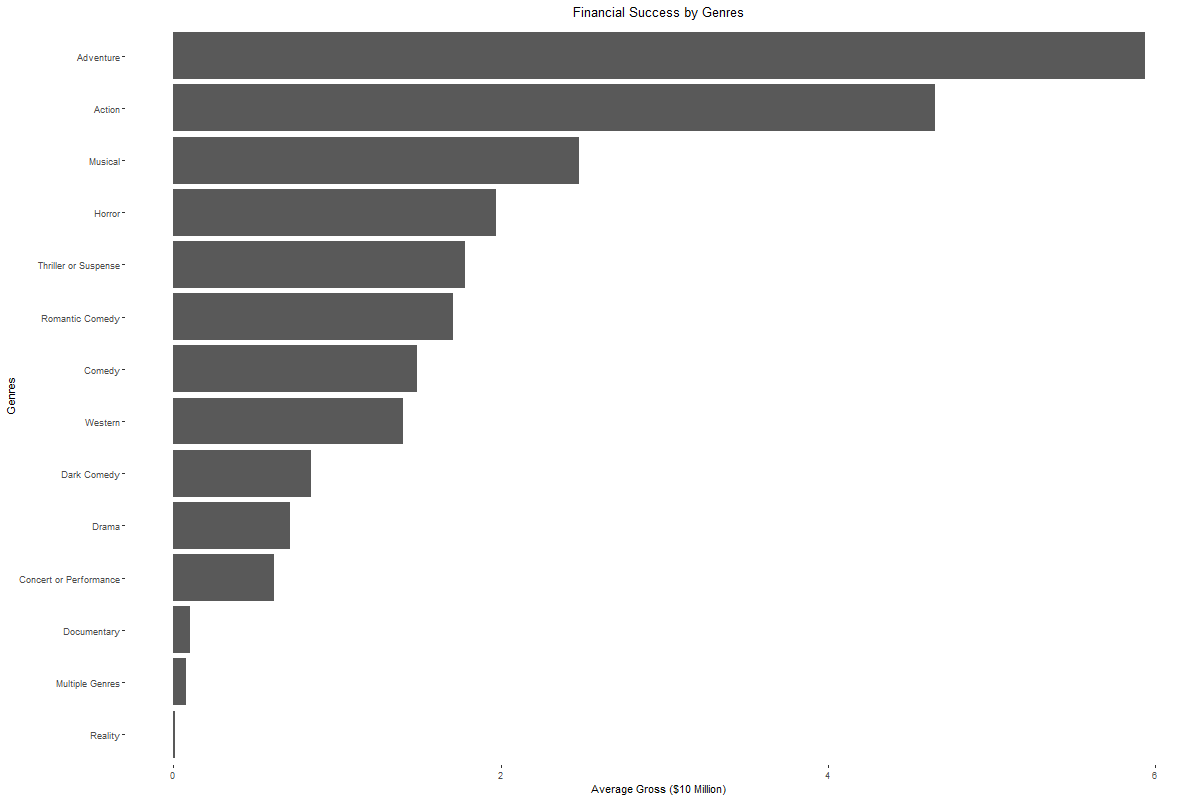
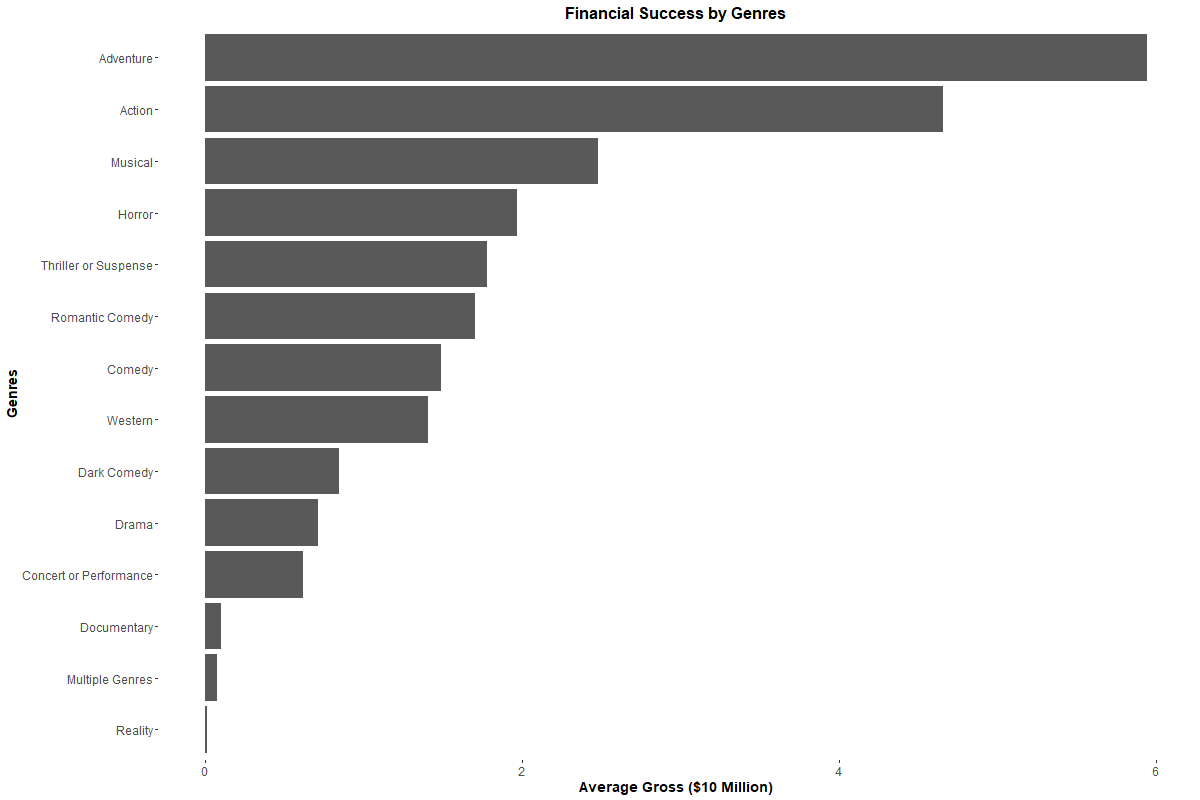
Final text and graphs descriptions.

diff --git a/README.md b/README.md
@@ -1,3 +1,171 @@
-# Movie Genres Statistics
+---
+title: "Movie Genres Statistics"
+author: "Marcos Munhão"
+output: 
+  html_document: 
+    toc: true
+    keep_md: true
+---
 
-This project shows some statistics about movie genres from 1995-2018, using R language and the dataset available at https://www.kaggle.com/datasets/thedevastator/film-genre-statistics?resource=download. 
+
+
+This is my first project using R language, so I tried to explore the dataset and extract some information about it. It shows:
+
+- Genres Popularity by movies released and tickets sold
+- Financial Success by adding the gross of each genre over the years and using an average of the total gross divided by the sum of movies released in each genre
+- Trend over time looking at movies released every year (1995 - 2018) for each genre and also looking at gross per year
+- Top 10 Highest-Grossing movies in this specific period, using the inflation correction for top movies provided.  
+
+# Data
+
+The dataset [Film Genre Statistics](https://www.kaggle.com/datasets/thedevastator/film-genre-statistics?resource=download.) were downloaded from Kaggle and has movie genre statistics and revenue data from 1995-2018. In this project, it can be found inside the folder called "Data" named as "ThrowbackDataThursday Week 11 - Film Genre Stats.csv". Let's see some things about it.
+
+
+### Size of our data
+Number of rows or observations =  300 
+
+Number of columns or variables =  10 
+
+# Popular Genres
+
+Selecting unique values in Genre column and adding all movies released and tickets sold for it (movies_pop). The data still remains as a dataframe. The "movies_pop_mr" and "movies_pop_ts" are the same dataframe as "movies_pop", but ordered by movies released and tickets sold, respectively. Both ordered in decreasing order.
+
+
+
+
+Table: Dataframe with popularity for each genre by movies released and tickets sold
+
+|Genre                  | Movies_Released| Tickets_Sold|
+|:----------------------|---------------:|------------:|
+|Action                 |             956|   6286733017|
+|Adventure              |            1005|   8480812819|
+|Comedy                 |            2230|   5040638417|
+|Concert or Performance |              63|     49778298|
+|Dark Comedy            |             174|    208096184|
+|Documentary            |            2143|    322824020|
+|Drama                  |            4997|   5474189407|
+|Horror                 |             553|   1572563195|
+|Multiple Genres        |              39|      3676146|
+|Musical                |             170|    547432661|
+|Reality                |               5|        74035|
+|Romantic Comedy        |             574|   1557896913|
+|Thriller or Suspense   |            1024|   2671463214|
+|Western                |              77|    146128846|
+
+Below we can see graphics generated from the data above: 
+
+### By Movies Released
+
+
+Table: Dataframe movies_pop ordered in a decreasing way by movies released
+
+|   |Genre                  | Movies_Released| Tickets_Sold| Porc_total|
+|:--|:----------------------|---------------:|------------:|----------:|
+|7  |Drama                  |            4997|   5474189407|      35.67|
+|3  |Comedy                 |            2230|   5040638417|      15.92|
+|6  |Documentary            |            2143|    322824020|      15.30|
+|13 |Thriller or Suspense   |            1024|   2671463214|       7.31|
+|2  |Adventure              |            1005|   8480812819|       7.17|
+|1  |Action                 |             956|   6286733017|       6.82|
+|12 |Romantic Comedy        |             574|   1557896913|       4.10|
+|8  |Horror                 |             553|   1572563195|       3.95|
+|5  |Dark Comedy            |             174|    208096184|       1.24|
+|10 |Musical                |             170|    547432661|       1.21|
+|14 |Western                |              77|    146128846|       0.55|
+|4  |Concert or Performance |              63|     49778298|       0.45|
+|9  |Multiple Genres        |              39|      3676146|       0.28|
+|11 |Reality                |               5|        74035|       0.04|
+
+
+![](Images/Popularity of Genres by Movies Releasead.png)<!-- -->
+
+
+Looking at movies released, for this dataset, Drama is the most popular genre, with almost 5000 movies between 1995 and 2018. It's followed by Comedy and Documentary. These threes, together, answer for almost 67% of all movies released. As we'll see, this actually doesn't mean that they are popular genres, but that they have a largest film catalog. I know that we can think about the offer and demand, so let's take a look at tickets sold. 
+
+### By Tickets Sold
+
+
+Table: Dataframe movies_pop oredered in a decreasing way by tickets sold
+
+|   |Genre                  | Movies_Released| Tickets_Sold| Porc_total|
+|:--|:----------------------|---------------:|------------:|----------:|
+|2  |Adventure              |            1005|   8480812819|      26.21|
+|1  |Action                 |             956|   6286733017|      19.43|
+|7  |Drama                  |            4997|   5474189407|      16.92|
+|3  |Comedy                 |            2230|   5040638417|      15.58|
+|13 |Thriller or Suspense   |            1024|   2671463214|       8.25|
+|8  |Horror                 |             553|   1572563195|       4.86|
+|12 |Romantic Comedy        |             574|   1557896913|       4.81|
+|10 |Musical                |             170|    547432661|       1.69|
+|6  |Documentary            |            2143|    322824020|       1.00|
+|5  |Dark Comedy            |             174|    208096184|       0.64|
+|14 |Western                |              77|    146128846|       0.45|
+|4  |Concert or Performance |              63|     49778298|       0.15|
+|9  |Multiple Genres        |              39|      3676146|       0.01|
+|11 |Reality                |               5|        74035|       0.00|
+
+![](Images/Popularity of Genres by Tickets Sold.png)<!-- -->
+
+Here we can see that adding tickets from Adventure and Action movies, they sold more tickets than all of our previous top 3 most popular genres added together. Actually, Adventure almost made it alone. I think this is a better way to understand the popularity of a genre movie, because it's actually the public response. We need to consider that these are movies for almost everyone and easy to watch, despite film's budget. Related to the idea of measure the popularity of a genre or movie by how many tickets they sold, we will look now for financial success.
+
+Obs.: Because of the scale of the graphic, we can't see clearly how many tickets were sold or how many movies were released. This information can be seen in the respectively dataframe.
+
+# Measuring Financial Success
+
+The revenue of a movie determines if it will be a success or a failure, so now we will look which are the most successful genres and establish a metric to be the first revenue projection if you want to produce a movie. At first, let's take a look at the total gross of each genre. We expect to see something similar to the rank for popularity by tickets sold. The data, in this case, is available at a dataframe called "movies_fs".
+
+Besides "Total_Gross_genre", we see a variable called "Top_Movie_Gross", which give us the possibility to identify if there is some movie that behaves like an outlier and if it's pulling up our metric, that we will call "Average Gross". 
+
+### Gross by Genre
+
+![](Images/Financial Success by genres.png)<!-- -->
+
+We can see that Adventure, Action and Drama are the most successful genres, like we expected. Summing these with Comedy, we have 78.2% of all gross of all genres from 1995 to 2018, turning them into the most profitable genres.
+
+Now let's take a look at Gross Average.
+
+
+### Gross Average
+
+The first thing to note is that Drama and Comedy leave the top positions for and Musical and Horror. Another thing is that Action and Adventure, especially Adventure, are still leading the rank with a lot of "advantage".
+
+It's important to remember that in the same period, when Adventure and Action released a little bit more than 1000 movies, Drama and Comedy released around 5000 and 2500, respectively, which has a serious impact in our metrics.
+
+![](Images/Financial Success by genre average gross.png)<!-- -->
+
+So, the most profitable genres are Adventure and Action, with mention to Musical and Horror, that won't released so many movies, but have a good revenue. Futhermore, movies made by famous film studios, called blockbusters, even when they failure, they pull up the revenue of their genre. 
+
+
+# Genre Movies Released Over Time
+
+In this section we can see that, even not being the most profitable genre, drama released more movies, with a peak nearly 2014 followed by a drop and now it's growing again.
+
+Documentary has an interesting behavior after early 2000s, when it grows and reach the second position in the rank that was occupied by Comedy, which fell to third.
+
+![](Images/Trending overtime movies genres.png)<!-- -->
+
+Adventure, Action and Thriller or Suspense slightly detach from the last genres, but like them, they remain constant in recent years, with some oscillations.
+
+# Genre Movies Gross Over Time
+
+Again, Adventure and Action are the champions. Adventure remains constant since early 2000s, with a peak in 2015 and Action goes up since nearly 2005 until reaches the top nearly 2016.
+
+Drama is a stable genre in general and Comedy is in decline, after its peak nearly 2007. Thriller or Suspense was interesting around 2007 and 2014, but now its returning to the revenue from 1995.
+
+Musical genre after 2015 had an increasing revenue for a short time, may one or two hit movies are the cause (Beauty and the Beast - 2017).
+
+![](Images/Trending overtime movies genres gross.png)<!-- -->
+
+# Top 10 Highest-Grossing Movies
+
+Here, I used the column called "Top.Movie.Inflation.Adjusted.Gross..That.Year." to be fair with older movies, such as Titanic, which is the highest-grossing movie in this data.
+
+I put different colors to identify genres and, as expected, Adventure and Action dominate the highest-grossing movies.
+
+![](Images/Top 10 highest-grossing movies.png)<!-- -->
+
+Splitting the period in three (1995-2002, 2003-2010, 2011-2018) we observe that in the highest-grossing movies, 90% of the films were released in the first or the third period. The gap that we observe could be or not related to some other aspect like economic crisis, beyond good or bad movies.
+
+Avatar was released in 2009 and was the first movie to reach 1 billion in revenue, but in this data this isn't shown, which lead us to think that is probably USA data about movies instead of worldwide.
+
+From 2018 until today we have a lot of movies been released and the expansion of streaming platforms, which interfere in this industry.
